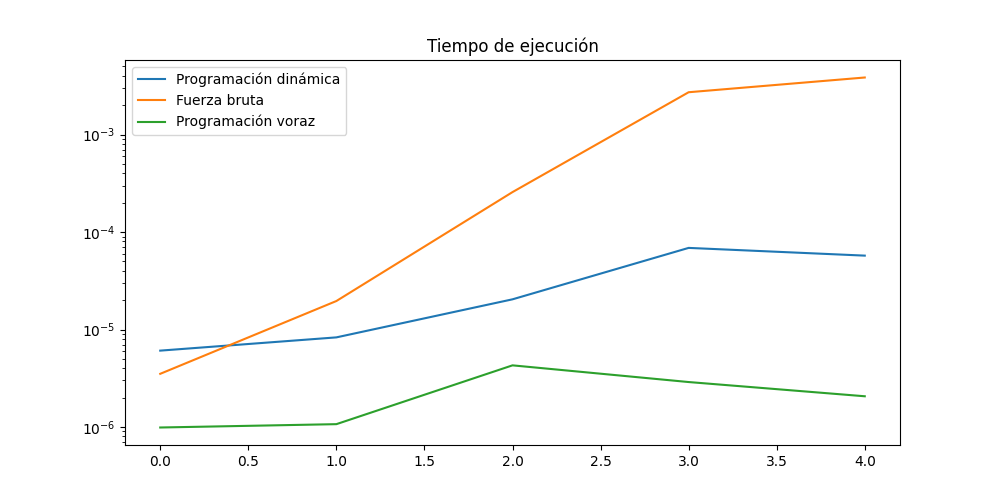
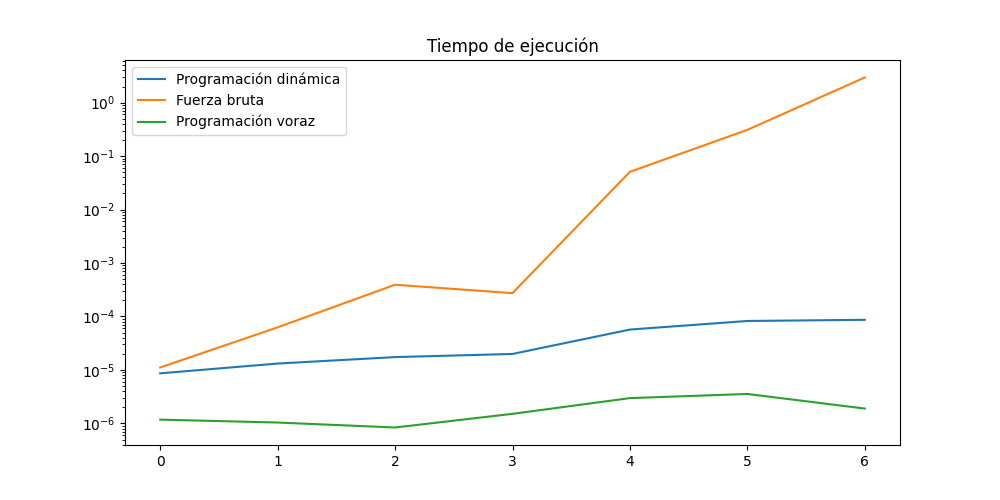
implementacion

diff --git a/Tiempo_ejecucion.py b/Tiempo_ejecucion.py
@@ -17,11 +17,13 @@ def tiempo_ejecucion(funcion, args):
 
 
 casos = [
-    ("A", "B"),
-    ("AC", "AB"),
-    ("Hola", "ola"),
-    ("juan", "julian"),
-    ("abdta", "abcta"),
+    ("Ay", "Ya"),
+    ("Pal", "Pup"),
+    ("Mora", "More"),
+    ("Agua", "Vaca"),
+    ("Destino", "Caminos"),
+    ("francesa", "ancestro"),
+    ("ingenioso", "ingeniero"),
 ]
 
 tiempos = [[], [], []]

diff --git a/Subasta_publica/fuerza_bruta.py b/Subasta_publica/fuerza_bruta.py
@@ -25,3 +25,4 @@ def subasta_fuerza_bruta(A, B, n, ofertas):
     probar_combinacion(0, A, 0, [0] * n)
 
     return mejor_valor, mejor_asignacion
+

diff --git a/Subasta_publica/voraz.py b/Subasta_publica/voraz.py
@@ -25,3 +25,4 @@ def subasta_voraz(A, B, n, ofertas):
             break
 
     return valor_total, mejor_asignacion
+
